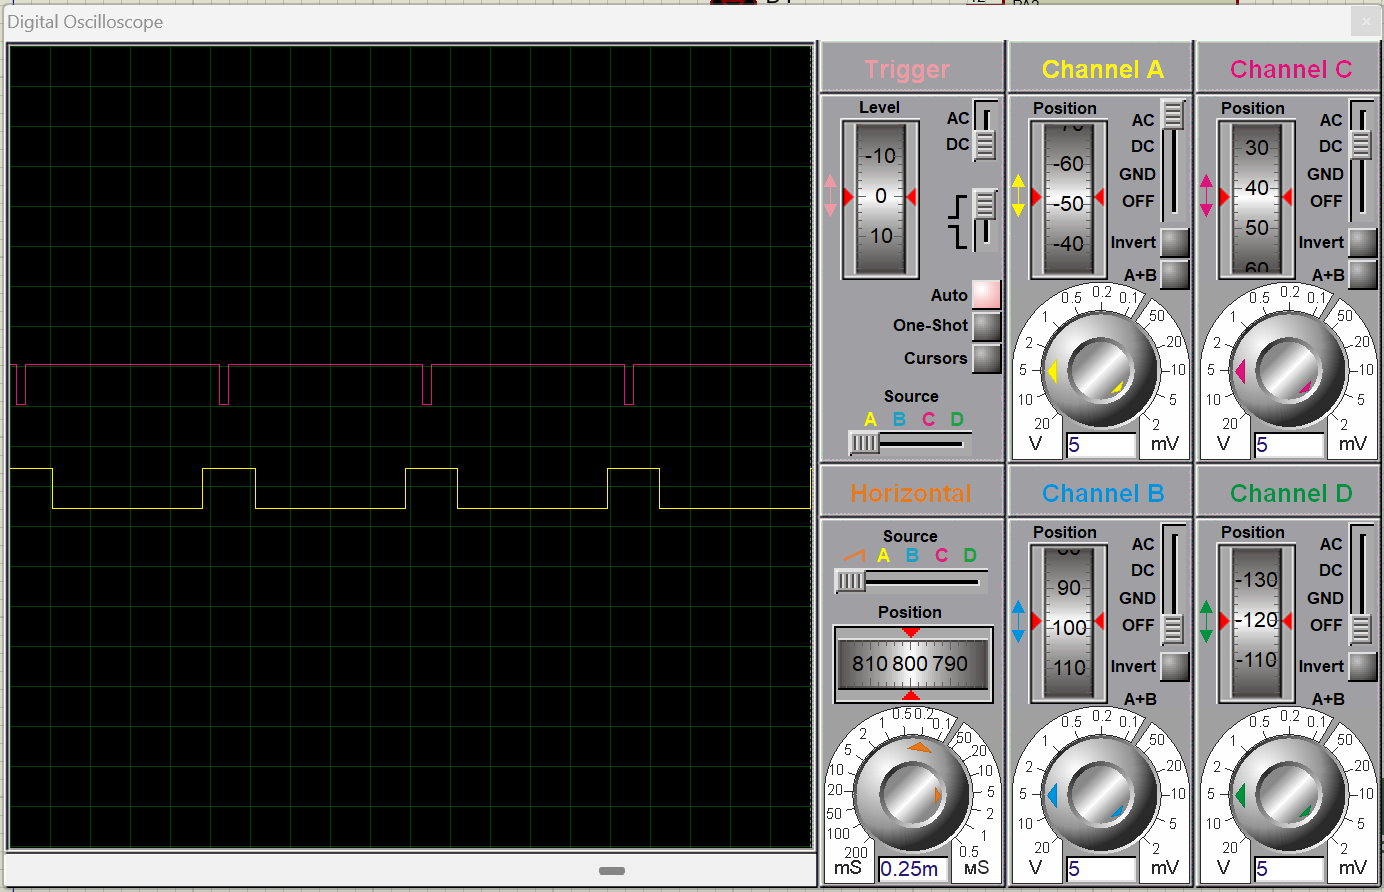
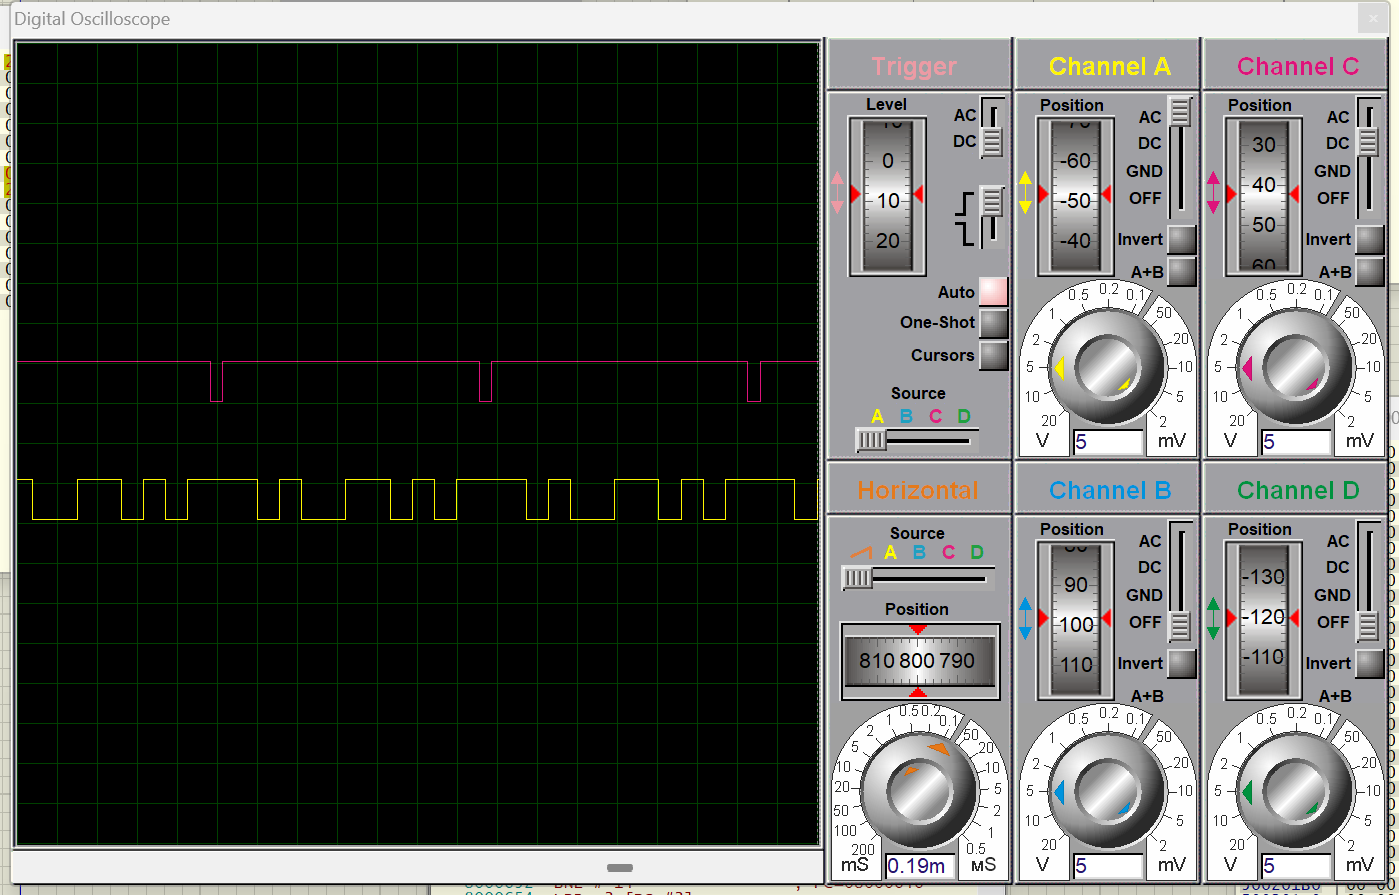
Yahoo

Changed region(s): [[0.0, 0.0, 1.0, 1.0]]

diff --git a/README.md b/README.md
@@ -36,3 +36,7 @@ and marking it with HIGH on line 2.
 The image 2 showcases how a valley is formed with LSB = 1
 
 <img src="./images/UART_2.png" weidth="640" height="480">
+
+The next iamge shows a complet byte transfer in an loop.
+
+<img src="./images/UART_4.png" weidth="640" height="480">
